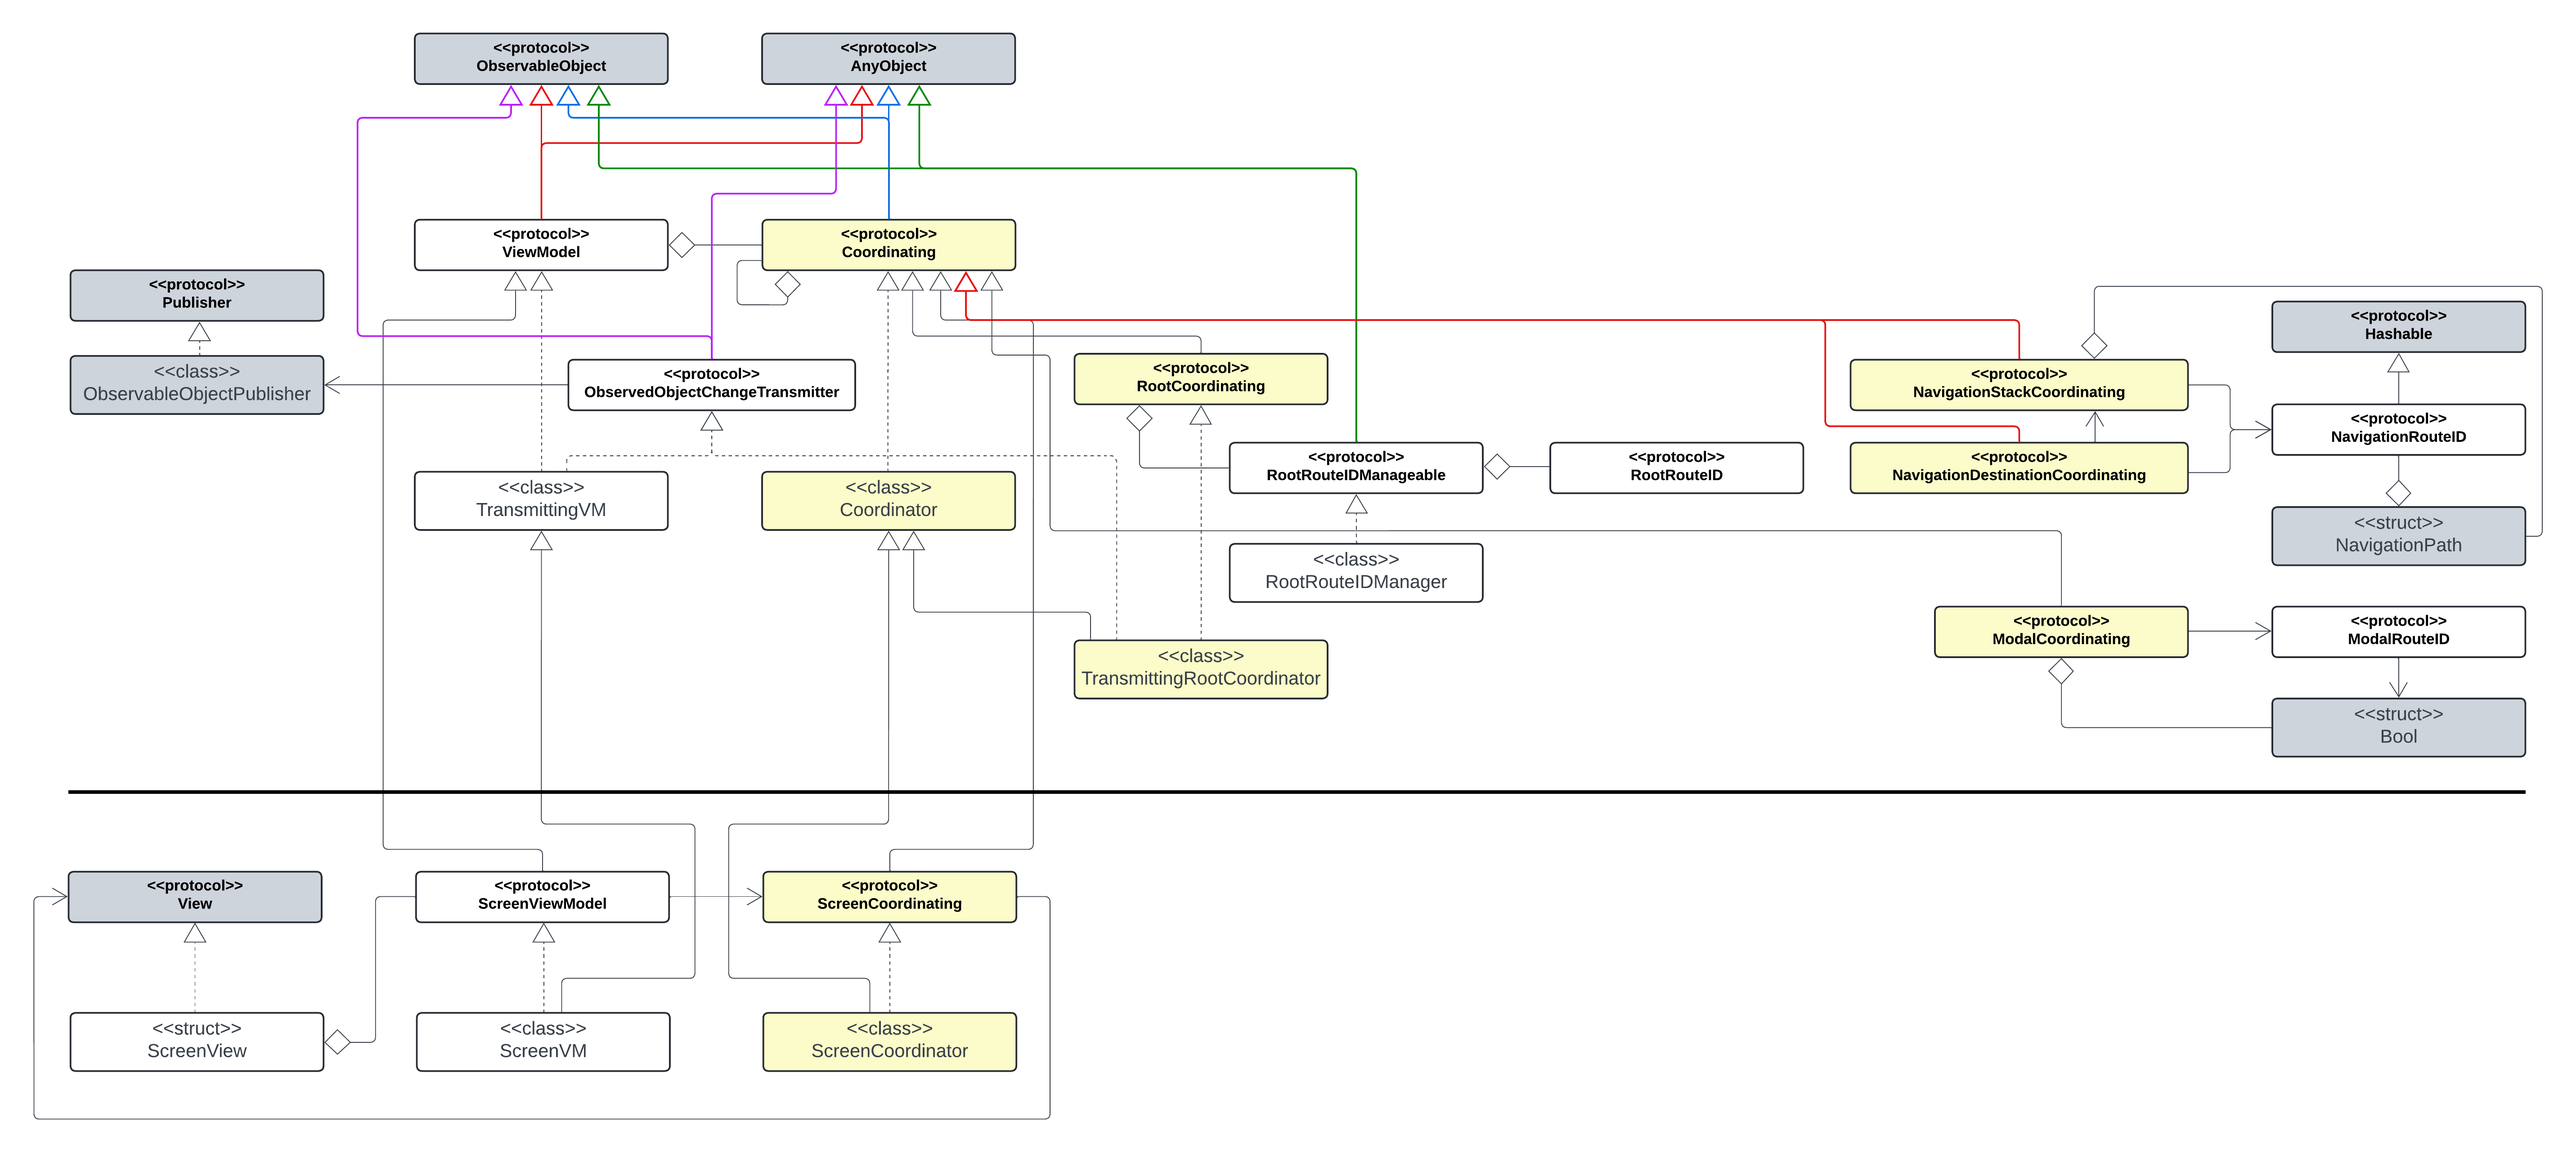
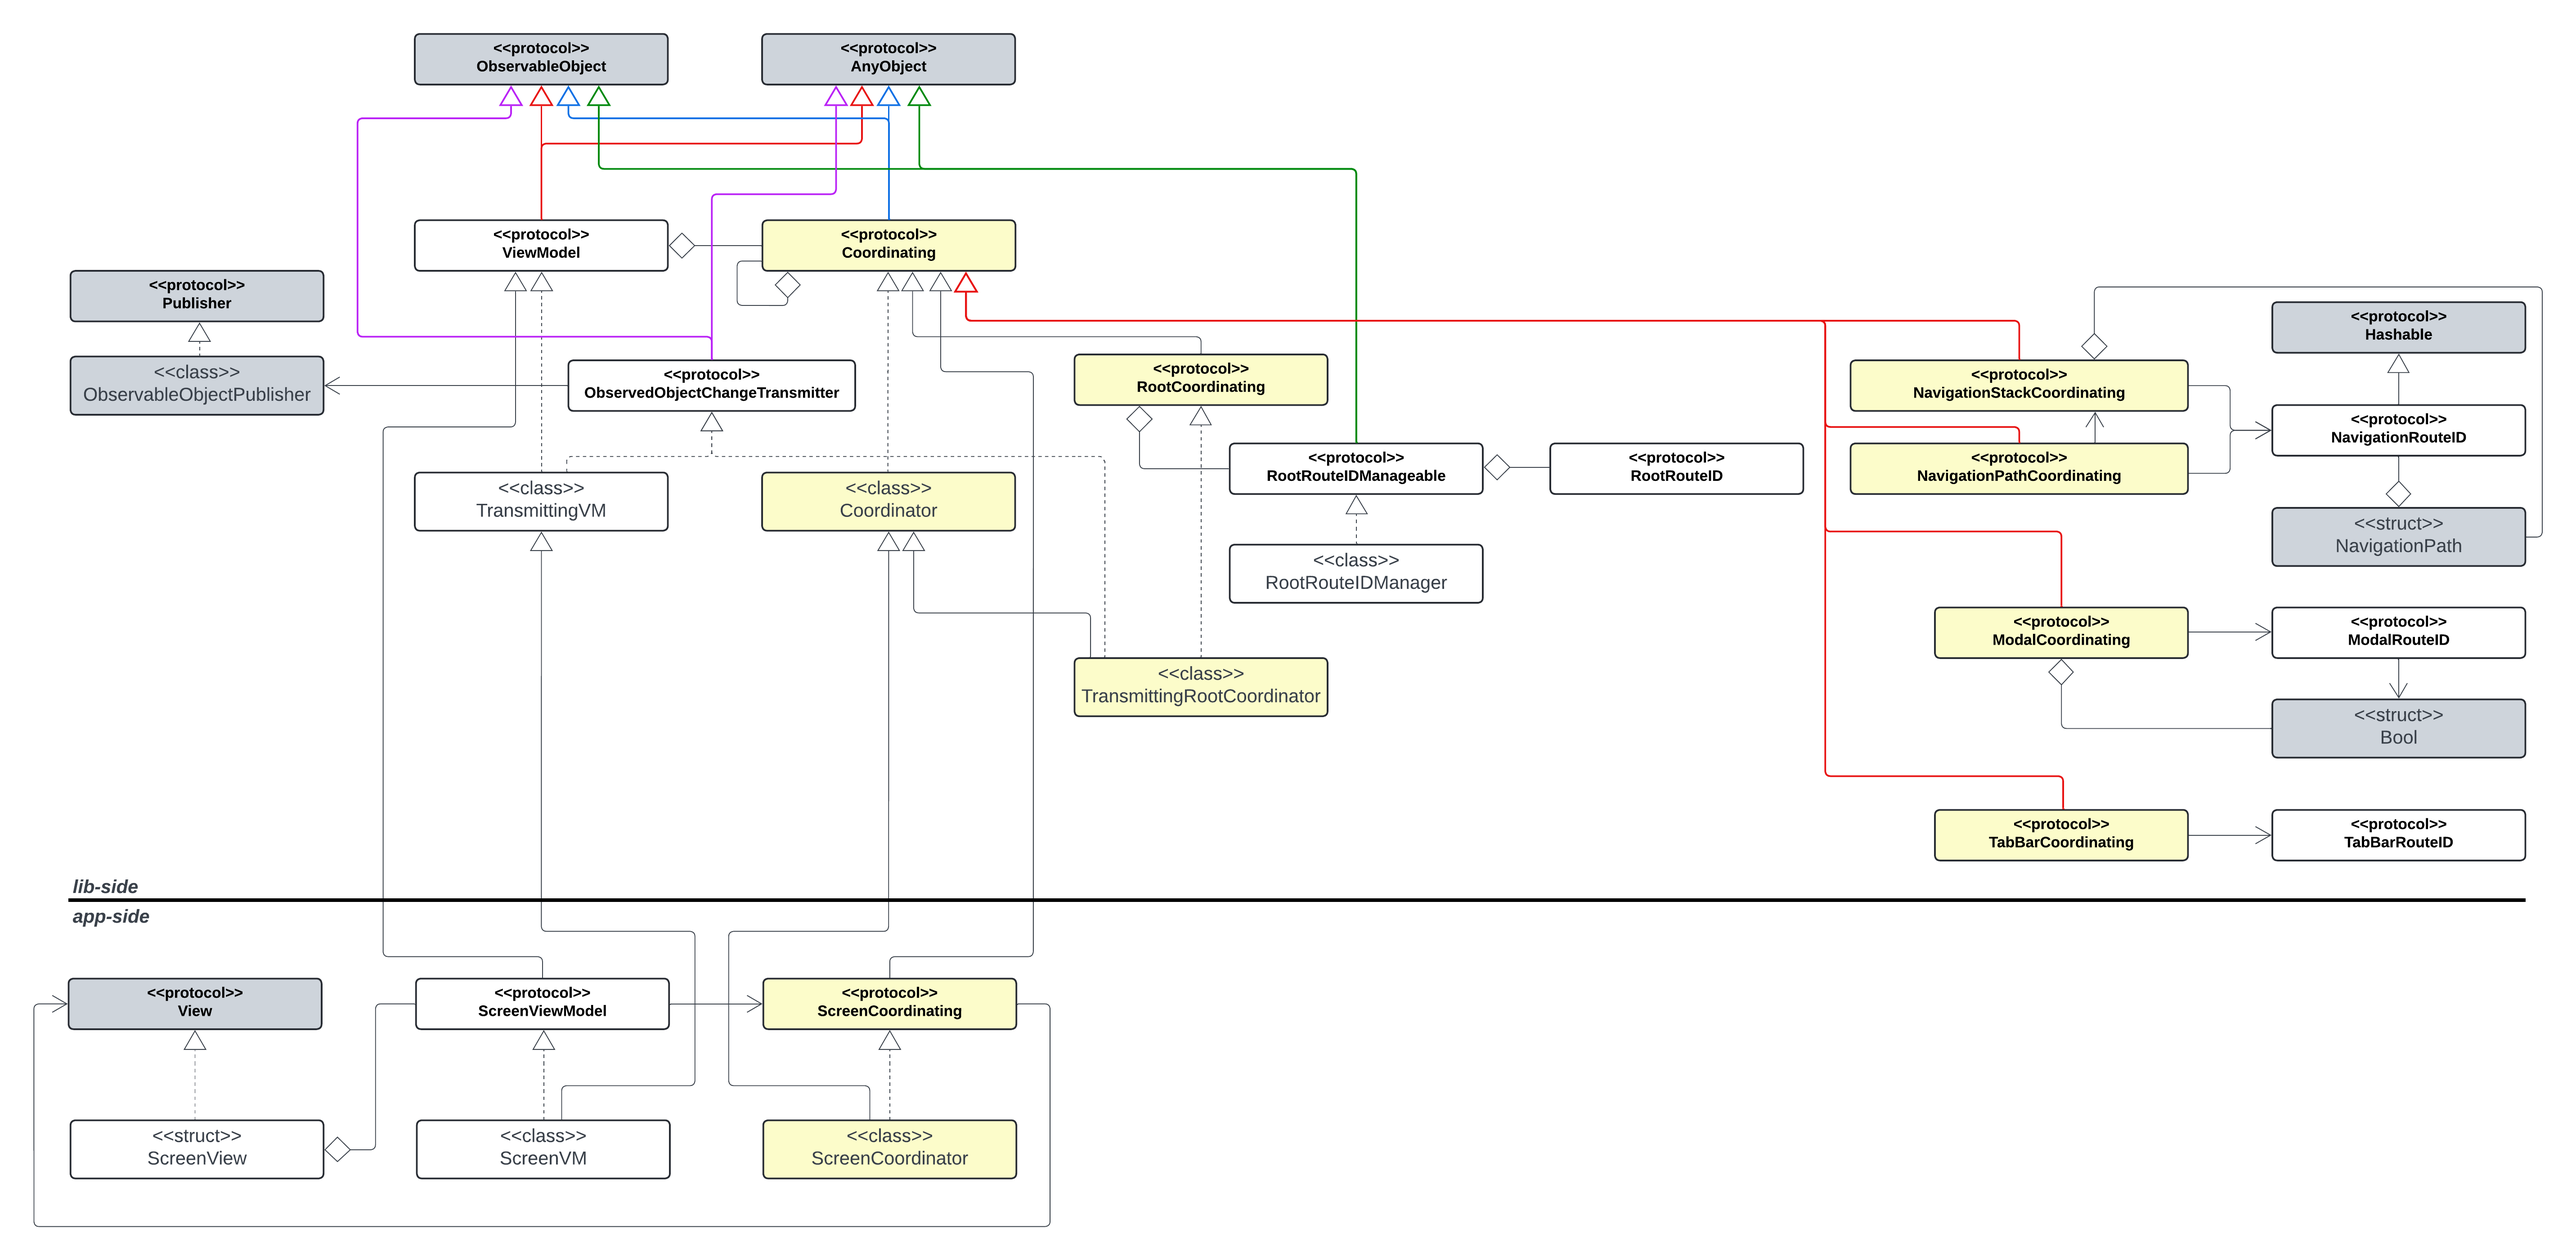
Clean-up code and update architecture diagram

diff --git a/Sources/SwiftUI_MVVMC/MVVMC/Coordinator/Child/Navigation/NavigationPathCoordinating.swift b/Sources/SwiftUI_MVVMC/MVVMC/Coordinator/Child/Navigation/NavigationPathCoordinating.swift
@@ -4,24 +4,24 @@
 
 import SwiftUI
 
-public protocol NavigationDestinationCoordinating: Coordinating {
+public protocol NavigationPathCoordinating: Coordinating {
     
     associatedtype RouteID: NavigationRouteID
     
     @discardableResult
-    func addToPath(routeID: RouteID) -> Bool
+    func navigationPathAppend(_ routeID: RouteID) -> Bool
     
     @discardableResult
-    func removeFromPath(segmentCount: Int) -> Bool
+    func navigationPathRemoveLast(_ segmentCount: Int) -> Bool
     
     @discardableResult
-    func clearPath() -> Bool
+    func navigationPathClear() -> Bool
 }
 
-extension NavigationDestinationCoordinating {
+extension NavigationPathCoordinating {
     
-    public func addToPath(routeID: RouteID) -> Bool {
-        guard let pathBinding = providePathBinding() else {
+    public func navigationPathAppend(_ routeID: RouteID) -> Bool {
+        guard let pathBinding = navigationPathBinding() else {
             return false
         }
         
@@ -30,8 +30,8 @@ extension NavigationDestinationCoordinating {
         return true
     }
     
-    public func removeFromPath(segmentCount: Int) -> Bool {
-        guard let pathBinding = providePathBinding() else {
+    public func navigationPathRemoveLast(_ segmentCount: Int) -> Bool {
+        guard let pathBinding = navigationPathBinding() else {
             return false
         }
         
@@ -40,8 +40,8 @@ extension NavigationDestinationCoordinating {
         return true
     }
     
-    public func clearPath() -> Bool {
-        guard let pathBinding = providePathBinding() else {
+    public func navigationPathClear() -> Bool {
+        guard let pathBinding = navigationPathBinding() else {
             return false
         }
         
@@ -50,7 +50,7 @@ extension NavigationDestinationCoordinating {
         return true
     }
     
-    func providePathBinding() -> Binding<NavigationPath>? {
+    func navigationPathBinding() -> Binding<NavigationPath>? {
         var coordinator: (any Coordinating)? = self
         
         while (coordinator != nil && !(coordinator is (any NavigationStackCoordinating))) {

diff --git a/Examples/SwiftUIMVVMCExample/SwiftUIMVVMCExample/Screens/Navigation/Child/NavigationChildScreenView.swift b/Examples/SwiftUIMVVMCExample/SwiftUIMVVMCExample/Screens/Navigation/Child/NavigationChildScreenView.swift
@@ -18,13 +18,13 @@ struct NavigationChildScreenView<ViewModel: NavigationChildScreenViewModel>: Vie
             Spacer().frame(height: 20)
             
             Button("Button GoTo forward") {
-                viewModel.coordinator.addToPath(routeID: ViewModel.Coordinator.RouteID.second)
+                viewModel.coordinator.navigationPathAppend(ViewModel.Coordinator.RouteID.second)
             }
             Button("Button GoTo backward") {
-                viewModel.coordinator.removeFromPath(segmentCount: 1)
+                viewModel.coordinator.navigationPathRemoveLast(1)
             }
             Button("Button clear path") {
-                viewModel.coordinator.clearPath()
+                viewModel.coordinator.navigationPathClear()
             }
         }
     }
@@ -36,7 +36,7 @@ struct NavigationChildScreenView<ViewModel: NavigationChildScreenViewModel>: Vie
             coordinator: NavigationChildScreenCoordinator(parent: nil)
         ),
         params: .init(
-            number: 1
+            number: 0
         )
     )
 }

diff --git a/Examples/SwiftUIMVVMCExample/SwiftUIMVVMCExample/Screens/Navigation/Root/NavigationRootScreenView.swift b/Examples/SwiftUIMVVMCExample/SwiftUIMVVMCExample/Screens/Navigation/Root/NavigationRootScreenView.swift
@@ -16,13 +16,13 @@ struct NavigationRootScreenView<ViewModel: NavigationRootScreenViewModel>: View 
             Spacer().frame(height: 20)
             
             Button("Button GoTo Template") {
-                viewModel.coordinator.addToPath(routeID: ViewModel.Coordinator.RouteID.first)
+                viewModel.coordinator.navigationPathAppend(ViewModel.Coordinator.RouteID.first)
             }
             Button("Button GoTo NavigationChild") {
-                viewModel.coordinator.addToPath(routeID: ViewModel.Coordinator.RouteID.second)
+                viewModel.coordinator.navigationPathAppend(ViewModel.Coordinator.RouteID.second)
             }
             Button("Button GoTo RootRouteIDs") {
-                viewModel.coordinator.addToPath(routeID: ViewModel.Coordinator.RouteID.third)
+                viewModel.coordinator.navigationPathAppend(ViewModel.Coordinator.RouteID.third)
             }
             
             Spacer().frame(height: 20)

diff --git a/Examples/SwiftUIMVVMCExample/SwiftUIMVVMCExample/Screens/Navigation/NavigationScreenCoordinator.swift b/Examples/SwiftUIMVVMCExample/SwiftUIMVVMCExample/Screens/Navigation/NavigationScreenCoordinator.swift
@@ -49,6 +49,9 @@ final class NavigationScreenCoordinator: Coordinator, NavigationScreenCoordinati
         NavigationChildScreenView(
             viewModel: NavigationChildScreenVM(
                 coordinator: NavigationChildScreenCoordinator(parent: self)
+            ),
+            params: .init(
+                number: 0
             )
         )
     }

diff --git a/Examples/SwiftUIMVVMCExample/SwiftUIMVVMCExample/Screens/Navigation/Child/NavigationChildScreenCoordinator.swift b/Examples/SwiftUIMVVMCExample/SwiftUIMVVMCExample/Screens/Navigation/Child/NavigationChildScreenCoordinator.swift
@@ -5,7 +5,7 @@
 import SwiftUI
 import SwiftUI_MVVMC
 
-protocol NavigationChildScreenCoordinating: NavigationDestinationCoordinating
+protocol NavigationChildScreenCoordinating: NavigationPathCoordinating
 where RouteID == NavigationScreenNavigationRouteID {}
 
 final class NavigationChildScreenCoordinator: Coordinator, NavigationChildScreenCoordinating {

diff --git a/Examples/SwiftUIMVVMCExample/SwiftUIMVVMCExample/Screens/Navigation/Root/NavigationRootScreenCoordinator.swift b/Examples/SwiftUIMVVMCExample/SwiftUIMVVMCExample/Screens/Navigation/Root/NavigationRootScreenCoordinator.swift
@@ -5,7 +5,7 @@
 import SwiftUI
 import SwiftUI_MVVMC
 
-protocol NavigationRootScreenCoordinating: NavigationDestinationCoordinating
+protocol NavigationRootScreenCoordinating: NavigationPathCoordinating
 where RouteID == NavigationScreenNavigationRouteID {}
 
 final class NavigationRootScreenCoordinator: Coordinator, NavigationRootScreenCoordinating {
